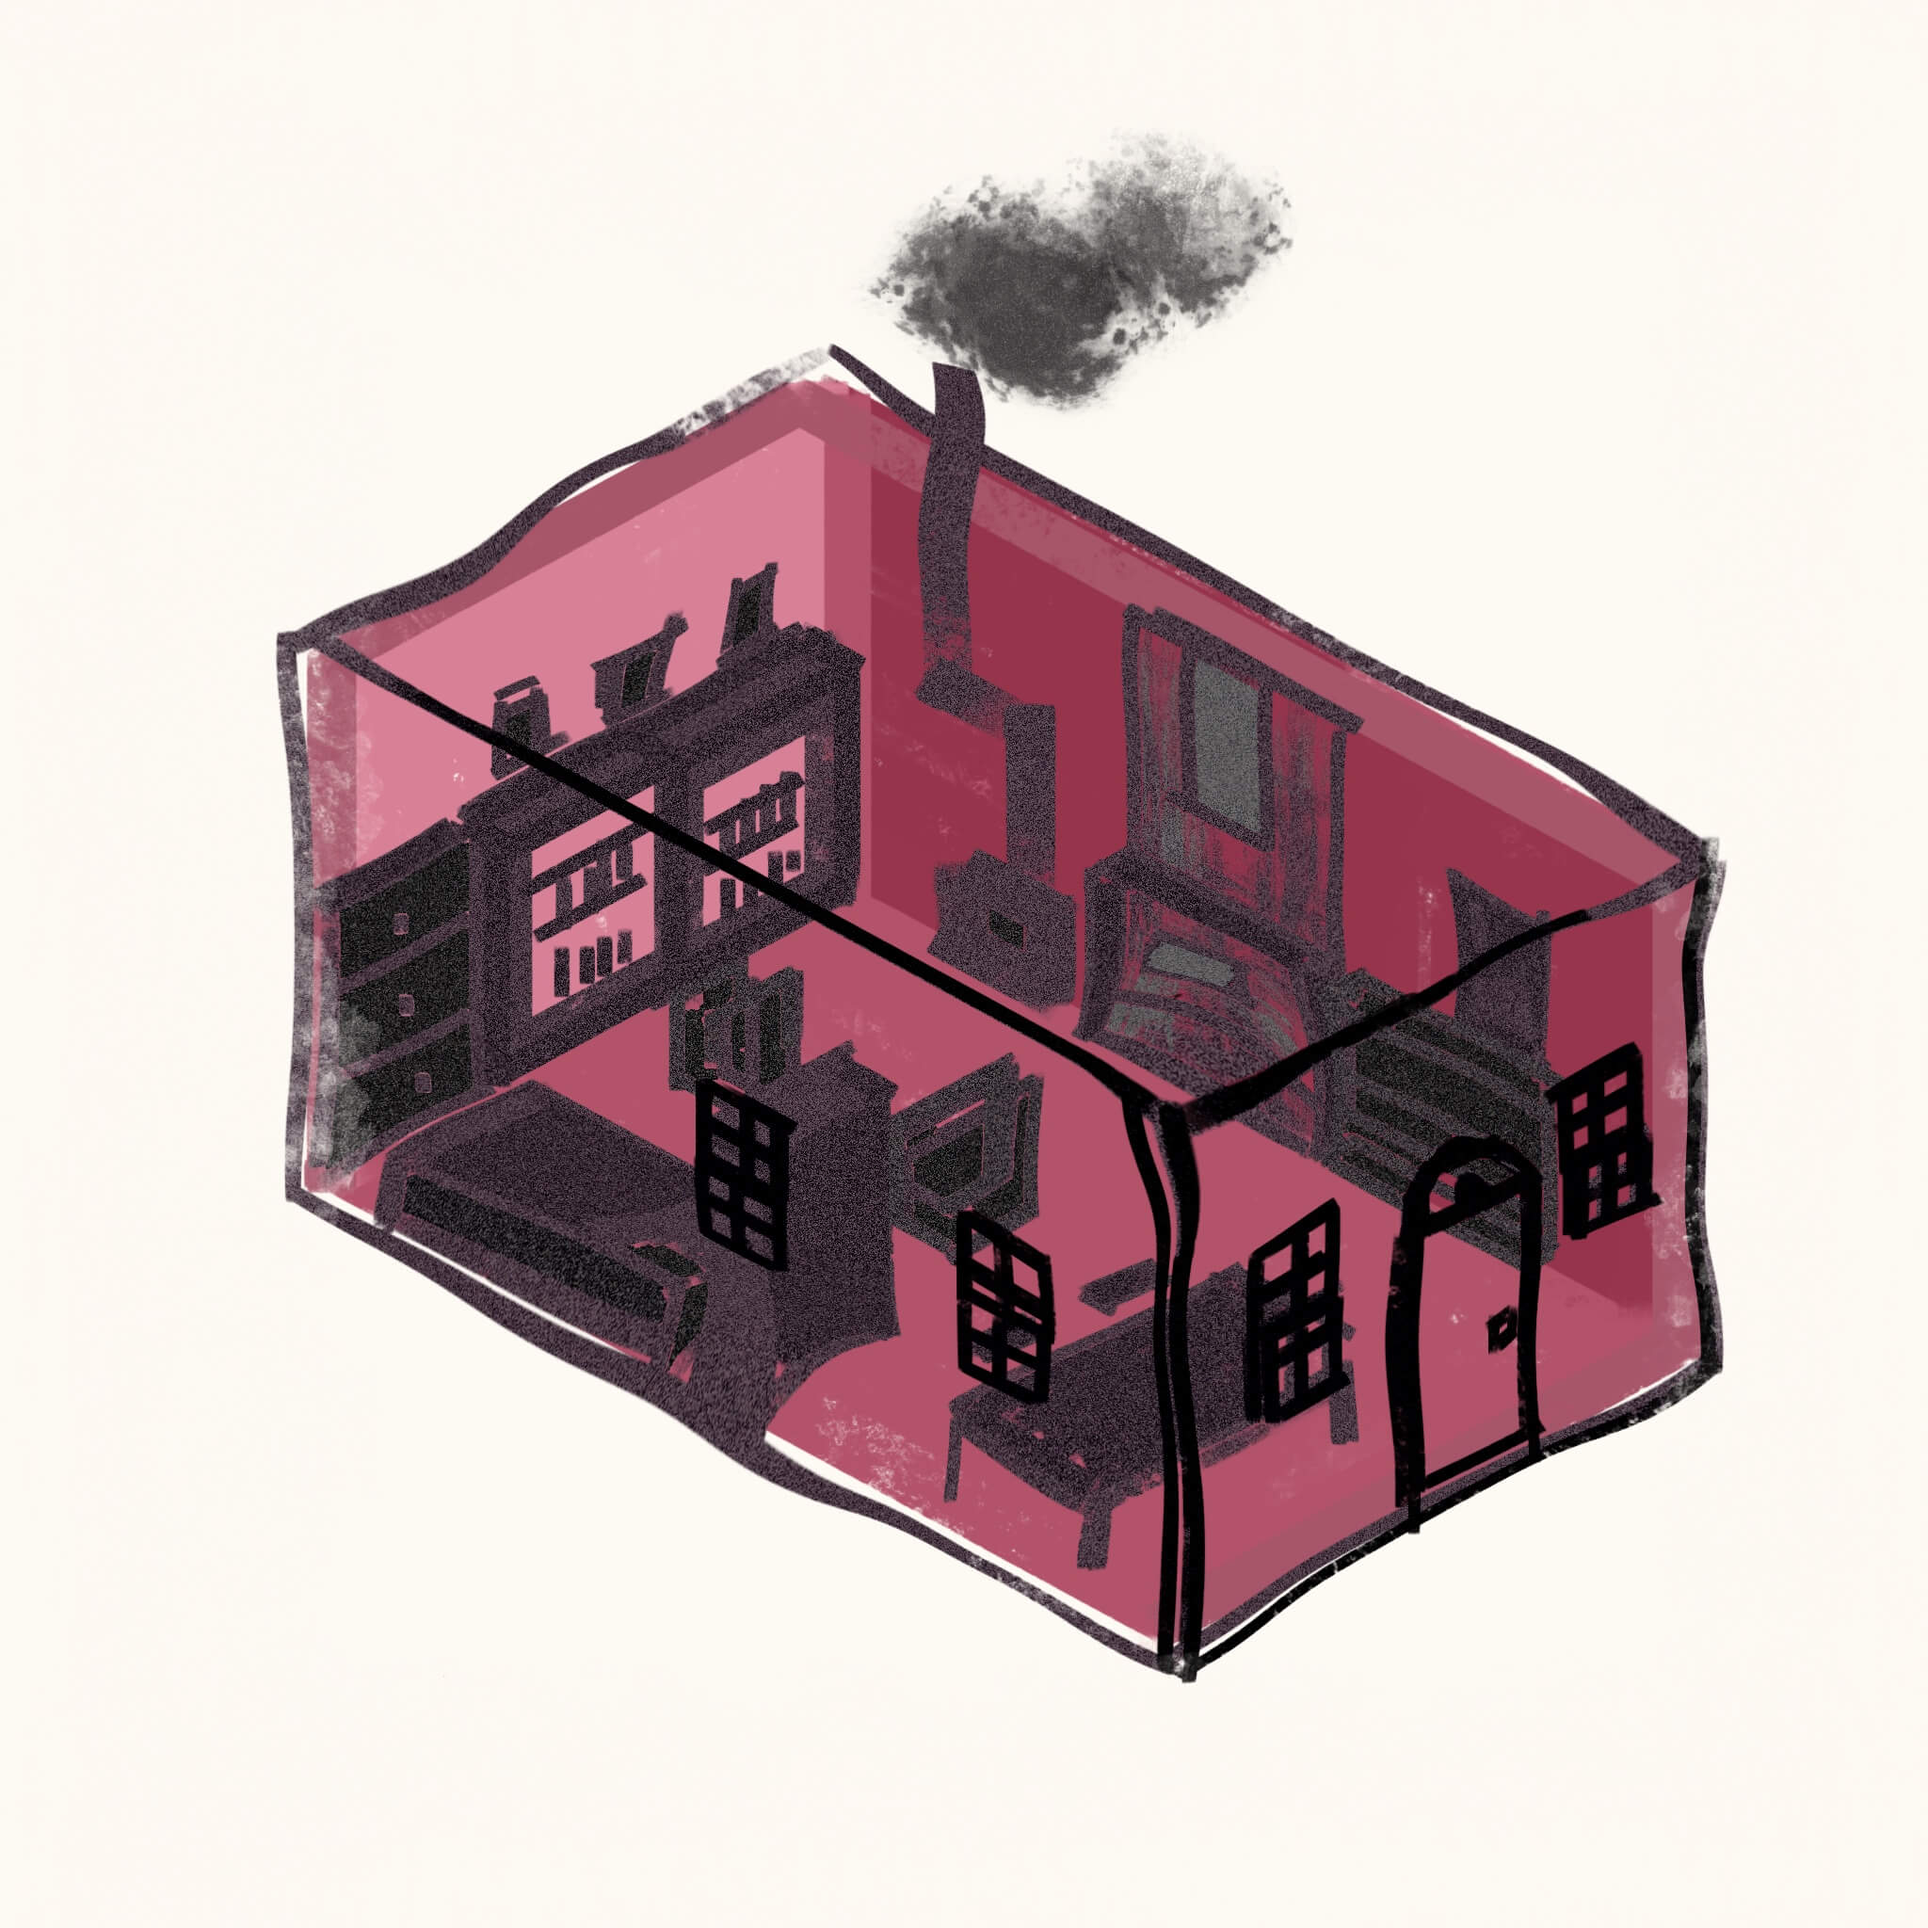
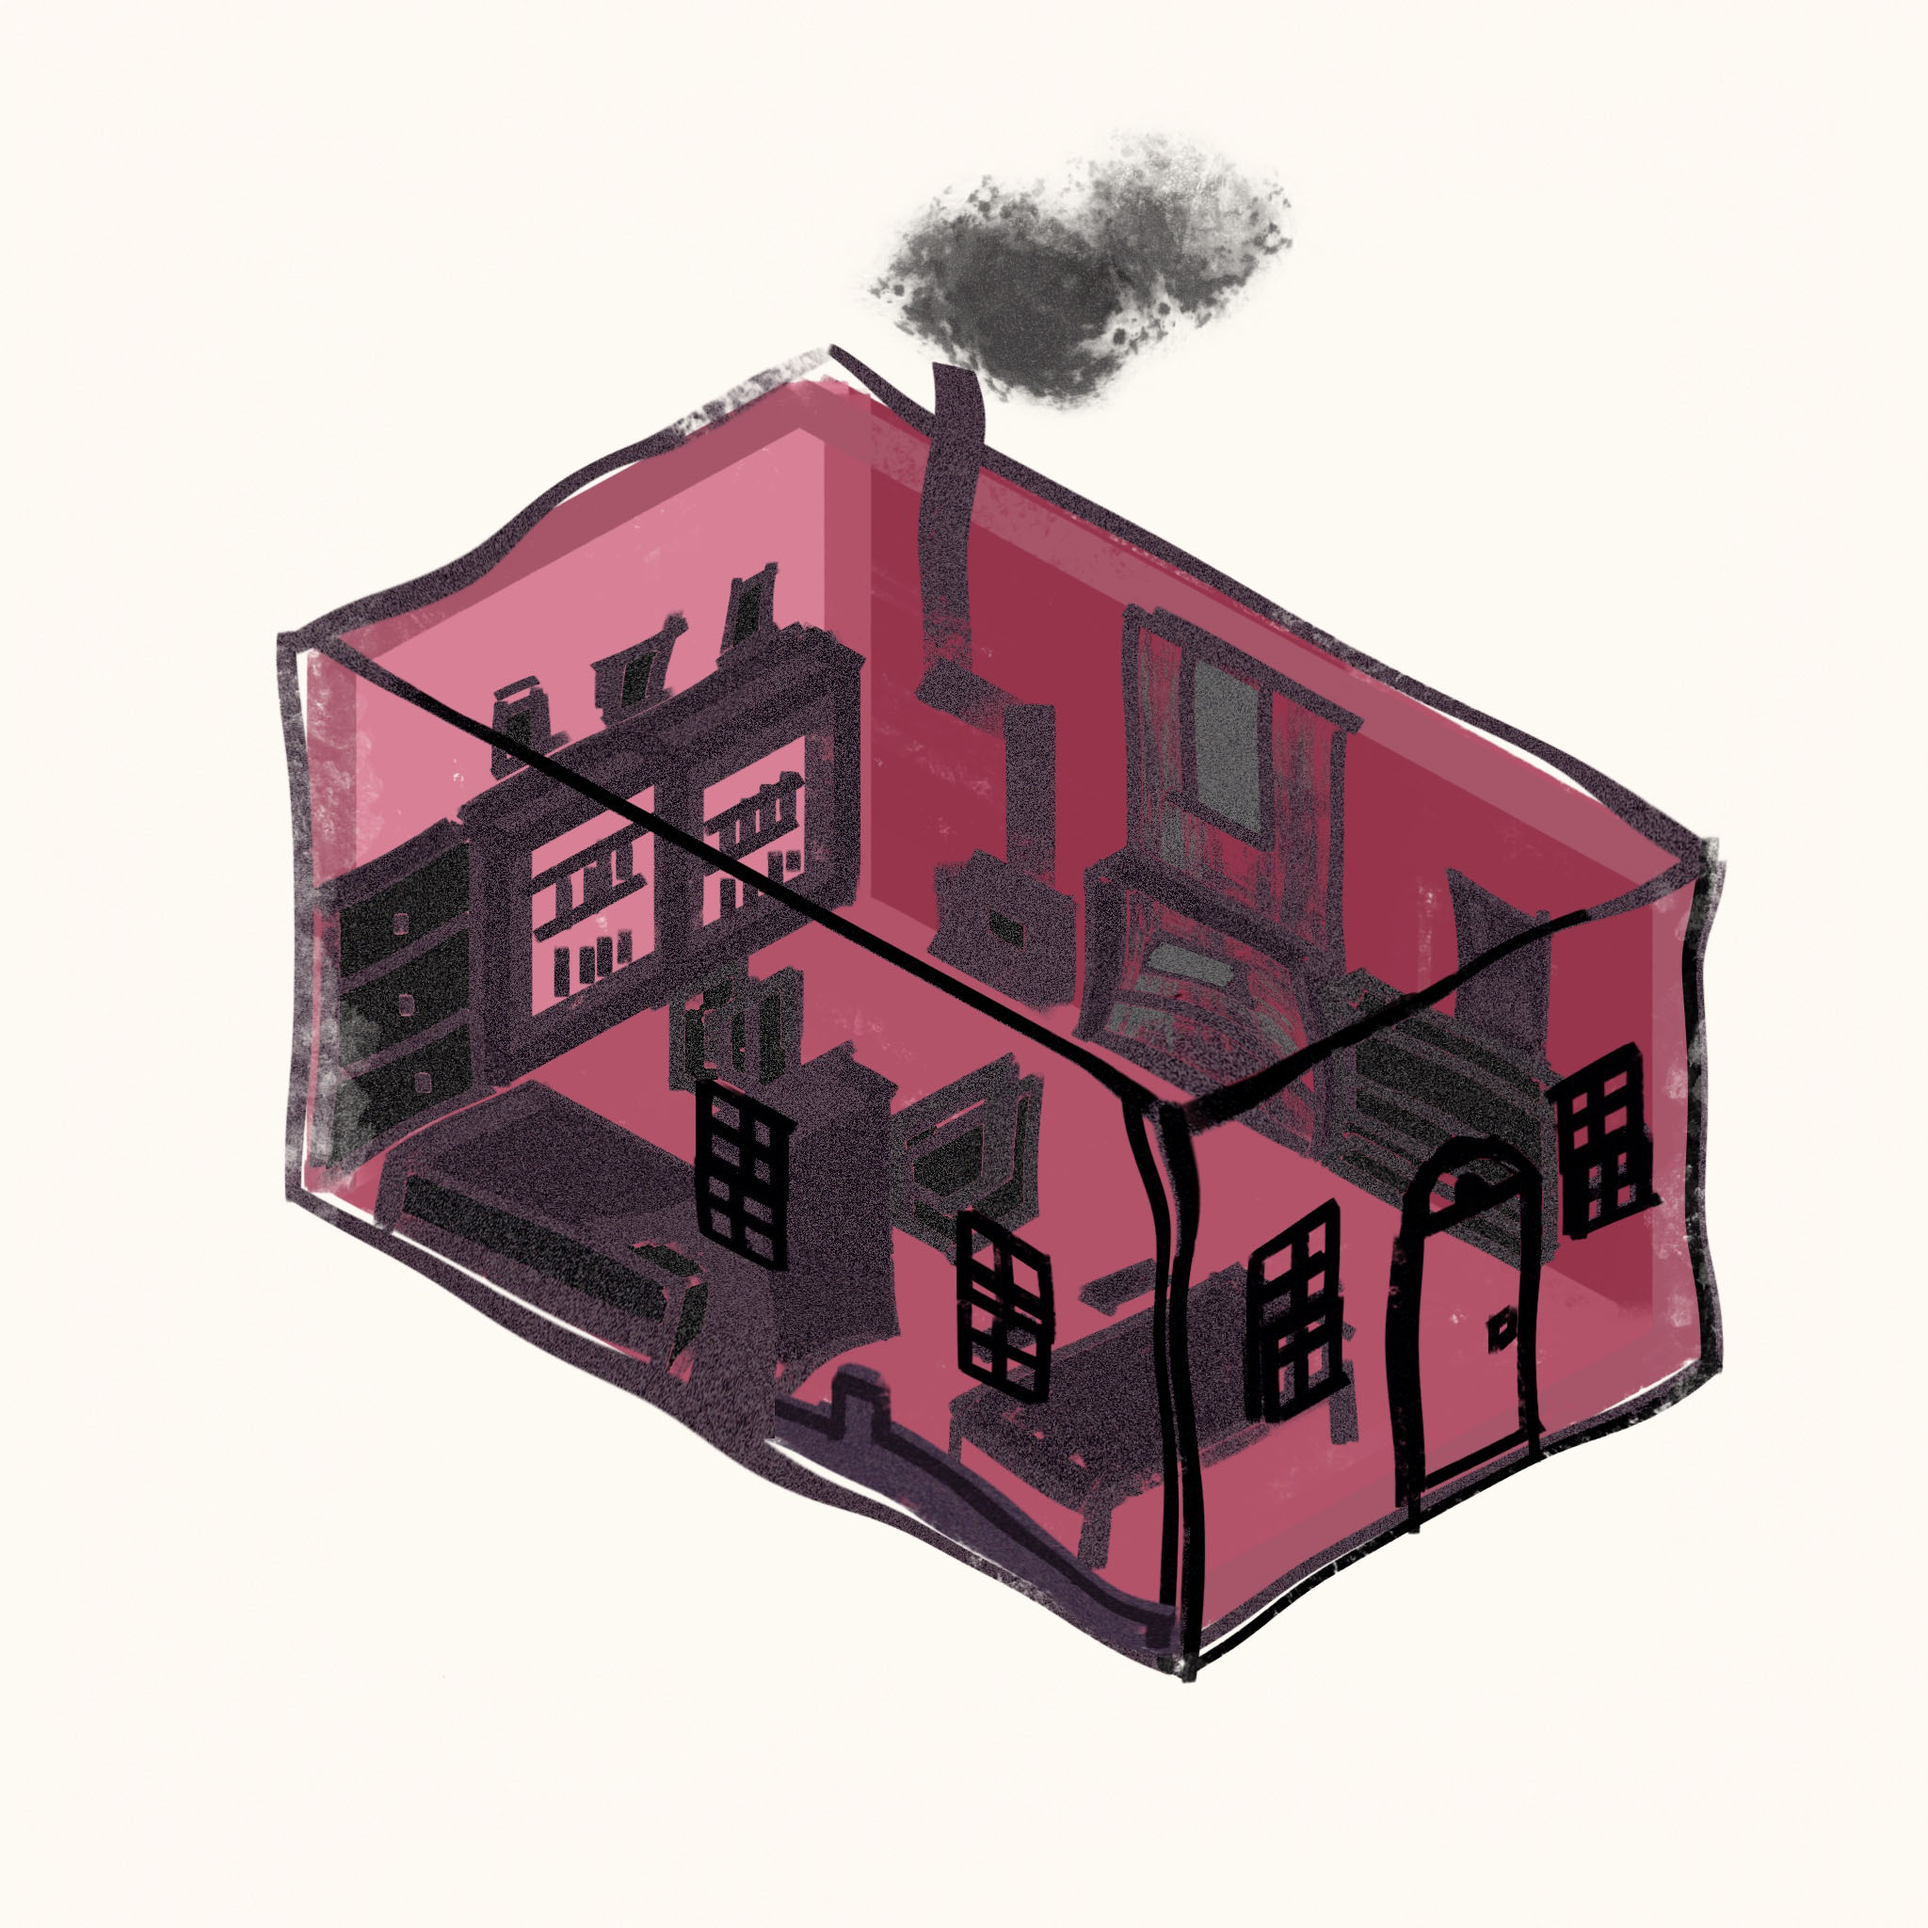
updating story and houseplan images folowing reader input

diff --git a/templates/story/part2.html b/templates/story/part2.html
@@ -7,8 +7,8 @@
 
         <h2> 2</h2>
         <hr>
-        <p>By now, you examine your surrounding with a methodical eye. You observe the kitchen area where you currently stand. There is a narrow counter top under the windows and the
-            dining room server, nothing out of the ordinary. You wonder how bothersome it was to take care of the dishes
+        <p>By now, you examine your surrounding with a methodical eye. You observe the kitchen area where you currently stand. There is a narrow counter top under the windows on the left wall and a
+            dining room server at the right, nothing out of the ordinary. A massive buffet with a painting of fruits stands is next to it, filled with pots, porcelain and silver. You wonder how bothersome it was to take care of the dishes
             a century ago. You certainly are fond of the amenities offered by modern plumbing.</p>
 
         <p>Your eyes pick up an old clock on the wall closest to the dining table. Beside being a gardener,

diff --git a/README.md b/README.md
@@ -1,21 +1,23 @@
 # A Curious Cottage
 #### A century-old riddle
 For this project, I decided to combine my affection for games and novels. I am working on a little interactive short story set in an old, dusty cottage.
-## UX
- 
-- This website is for gamers, visual novel or choose-your-own story readers, mystery novels fans, people with 10 minutes to spare.
-- User stories!!
+
 -  [Hypertext fiction](https://en.wikipedia.org/wiki/Hypertext_fiction)
 -  [Gamebook](https://en.wikipedia.org/wiki/Gamebook)
     A gamebook is a work of printed fiction that allows the reader to participate in the story by making choices. The narrative branches along various paths, typically through the use of numbered paragraphs or pages. Gamebooks are sometimes called choose your own adventure books or CYOA after the influential Choose Your Own Adventure series originally published by US company Bantam Books. Gamebooks influenced hypertext fiction.[1]
 
+## UX
+ 
+- This website is for gamers, visual novel or choose-your-own story readers, mystery novels fans, people with 10 minutes to spare.
+- User stories!!
+- Wireframes: [main story]() and [leaderboard]().
 > Use this section to provide insight into your UX process, focusing on who this website is for, what it is that they want to achieve and how your project is the best way to help them achieve these things.
 In particular, as part of this section we recommend that you provide a list of User Stories, with the following general structure:
      - As a user type, I want to perform an action, so that I can achieve a goal.
 This section is also where you would share links to any wireframes, mockups, diagrams etc. that you created as part of the design process. These files should themselves either be included in the project itself (in an separate directory), or just hosted elsewhere online and can be in any format that is viewable inside the browser.
 > ## Features
 > In this section, you should go over the different parts of your project, and describe each in a sentence or so.
-- Story
+- Original Story
 - Interactivity [Interactive fiction](https://en.wikipedia.org/wiki/Interactive_fiction)
 - Leaderboard to display progress of the reader in the story
  
